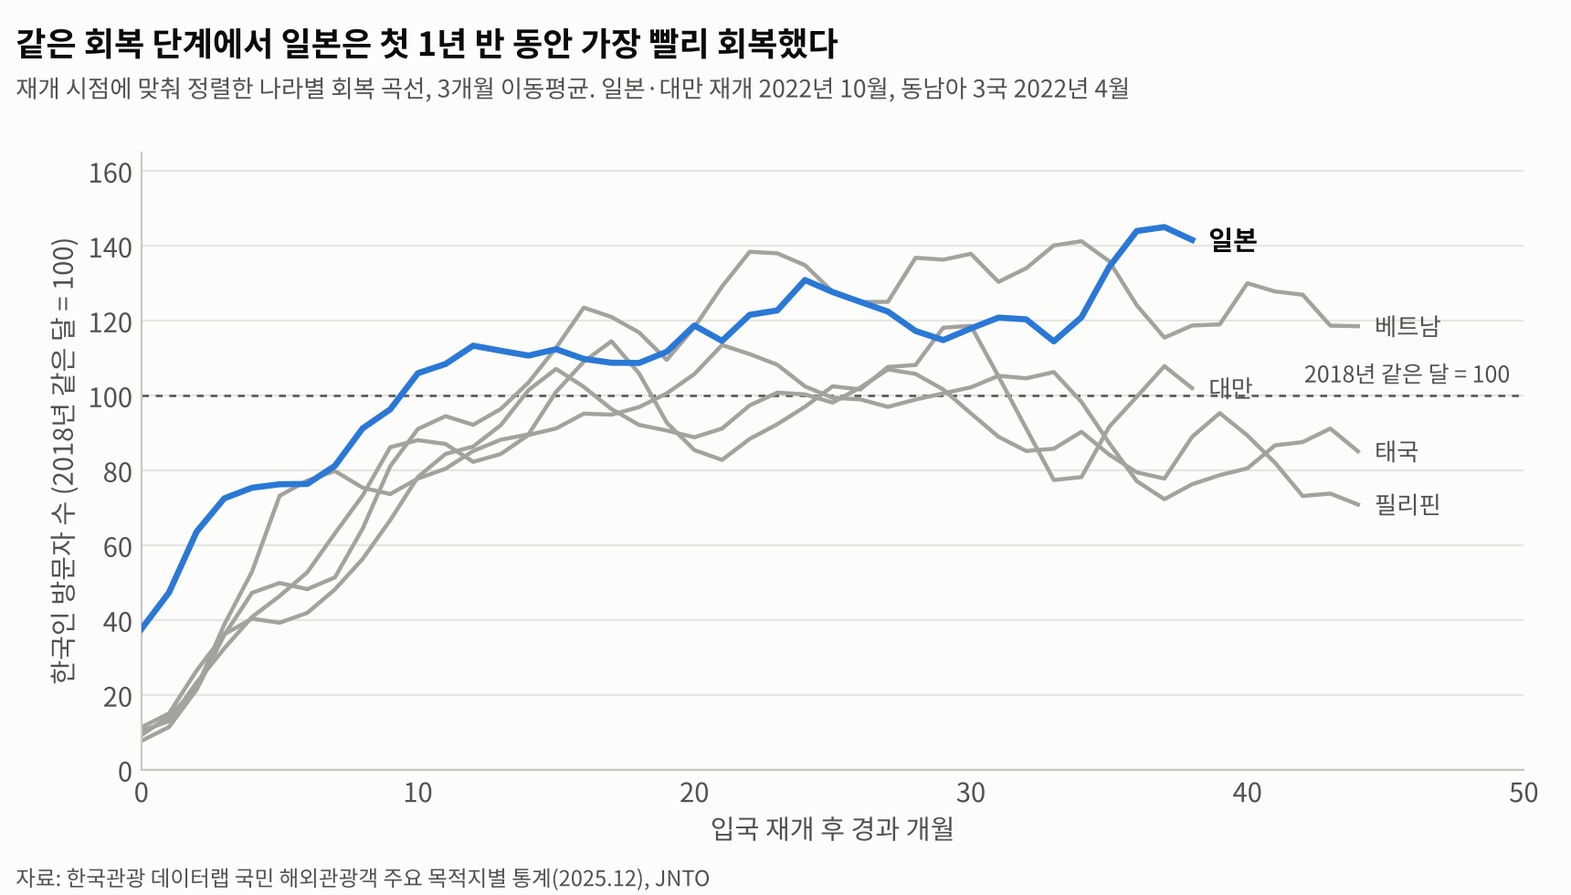
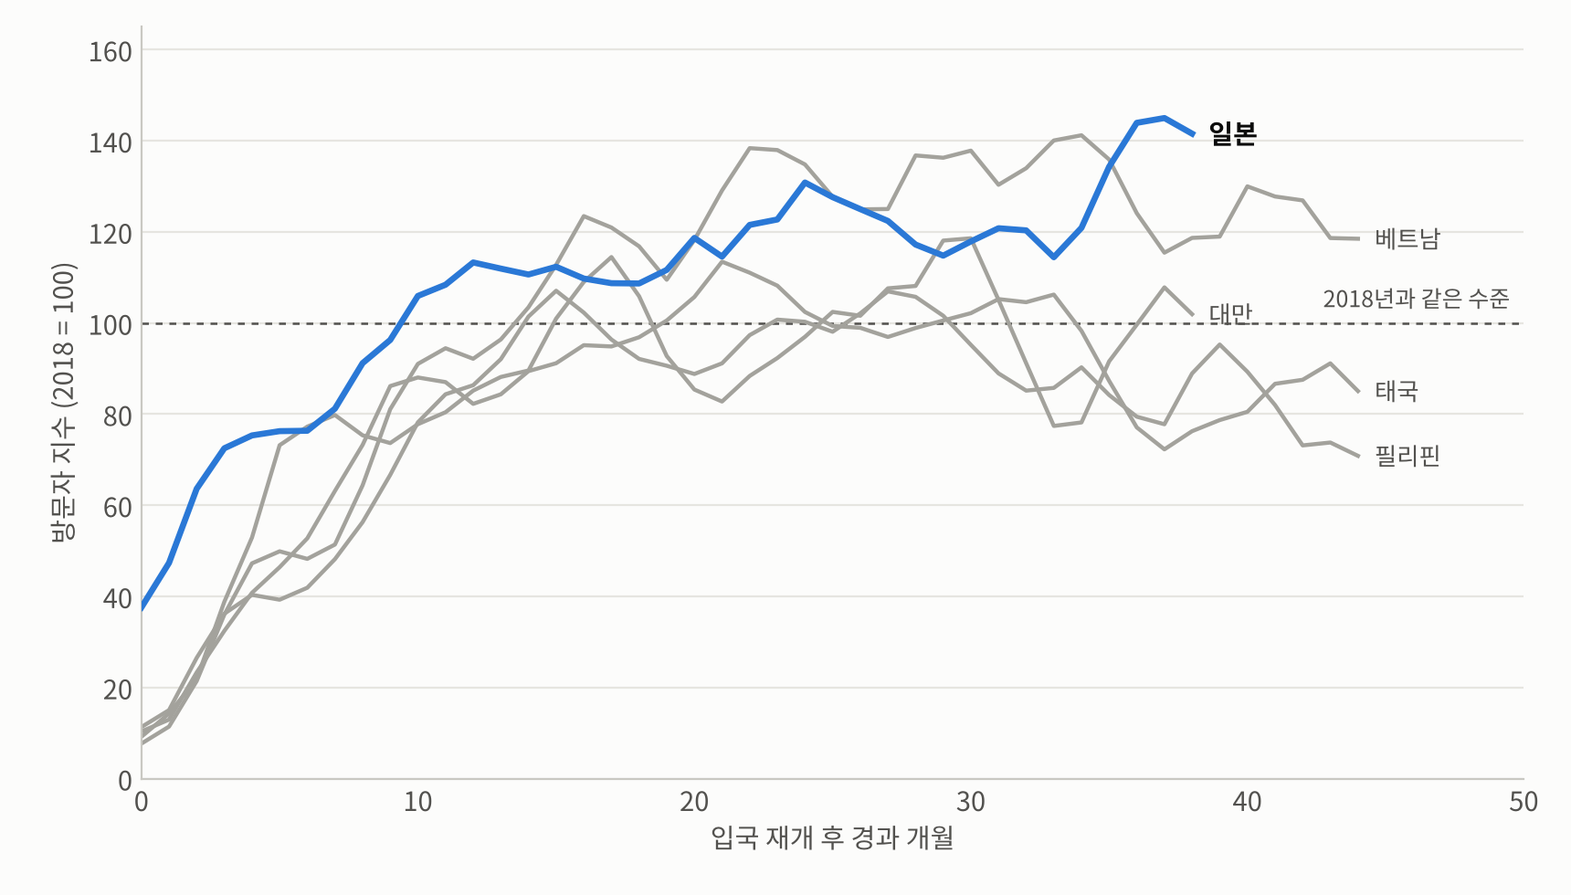
그림: 제목·부제·출처 제거, 축 제목 단축, 라벨 의미 명확화, 겹침 수정; 캡션 초안 문서 추가
Claude-Session: https://claude.ai/code/session_01MK3jgomD3SMyJ2LmiEocoL

diff --git a/src/figures.py b/src/figures.py
@@ -26,7 +26,6 @@ plt.rcParams.update({"font.family": family, "axes.unicode_minus": False, "font.s
                      "figure.facecolor": "#fcfcfb", "axes.facecolor": "#fcfcfb", "savefig.facecolor": "#fcfcfb"})
 INK, INK2, GRID, MUTED = "#0b0b0b", "#52514e", "#e6e5e0", "#a3a29c"
 BLUE, ORANGE = "#2a78d6", "#eb6834"
-SRC = "자료: 한국관광 데이터랩 국민 해외관광객 주요 목적지별 통계(2025.12), JNTO"
 
 
 def style(ax, grid="y"):
@@ -36,12 +35,8 @@ def style(ax, grid="y"):
     ax.tick_params(length=0)
 
 
-def titles(fig, title, sub, note=None, y=0.97, ys=0.915):
-    fig.text(0.01, y, title, fontsize=13, weight="bold", color=INK, va="top")
-    fig.text(0.01, ys, sub, fontsize=9.5, color=INK2, va="top")
-    if note:
-        fig.text(0.01, 0.01, note, fontsize=8.5, color=INK2)
-
+# Figures carry no title, subtitle or source line: the report adds numbered captions and footnotes.
+# Only labels that say what a mark means stay inside the plot. Caption text is kept in docs/figure_captions.md.
 
 P = load_full()
 R = json.load(open(RESULTS / "main_models.json"))
@@ -61,19 +56,17 @@ d = E[E.country == "JP"]
 ax.plot(d.event, d.idx_s, color=BLUE, lw=2.4, zorder=3)
 ax.text(d.event.iloc[-1] + 0.6, d.idx_s.iloc[-1], "일본", color=INK, va="center", fontsize=10.5, weight="bold")
 ax.axhline(100, color=INK2, lw=0.9, ls=(0, (3, 3)), zorder=1)
-ax.text(49.5, 103.5, "2018년 같은 달 = 100", color=INK2, fontsize=9, ha="right")
+ax.text(49.5, 103.5, "2018년과 같은 수준", color=INK2, fontsize=9, ha="right")
 ax.set_xlim(0, 50); ax.set_ylim(0, 165)
-ax.set_xlabel("입국 재개 후 경과 개월"); ax.set_ylabel("한국인 방문자 수 (2018년 같은 달 = 100)")
+ax.set_xlabel("입국 재개 후 경과 개월"); ax.set_ylabel("방문자 지수 (2018 = 100)")
 style(ax)
-titles(fig, "같은 회복 단계에서 일본은 첫 1년 반 동안 가장 빨리 회복했다",
-       "재개 시점에 맞춰 정렬한 나라별 회복 곡선, 3개월 이동평균. 일본·대만 재개 2022년 10월, 동남아 3국 2022년 4월", SRC)
-fig.subplots_adjust(top=0.83, bottom=0.14, left=0.09, right=0.97)
+fig.subplots_adjust(top=0.97, bottom=0.13, left=0.09, right=0.97)
 fig.savefig(FIGURES / "fig1_recovery_by_event_time.png", dpi=200); plt.close(fig)
 
 # ------------------------------------------------------------------ 2. coefficient comparison
-rows = [("모형 1: 일본 단독 (통념)", R["model1"]["theta"], R["model1"]["se"], "main1"),
-        ("모형 2: 달력 월 고정효과", R["model2_calendar"]["theta"], R["model2_calendar"]["se"], "alt"),
-        ("모형 2: 재개 후 경과 고정효과 (본 분석)", R["model2_event"]["theta"], R["model2_event"]["se"], "main2")]
+rows = [("모형 1 · 일본 단독 (통념)", R["model1"]["theta"], R["model1"]["se"], "main1"),
+        ("모형 2 · 달력 월 고정효과", R["model2_calendar"]["theta"], R["model2_calendar"]["se"], "alt"),
+        ("모형 2 · 경과 개월 고정효과 (본 분석)", R["model2_event"]["theta"], R["model2_event"]["se"], "main2")]
 rlab = {"drop_VN": "베트남 제외", "drop_TH": "태국 제외", "drop_PH": "필리핀 제외", "drop_TW": "대만 제외",
         "alt_reopen": "재개 시점 다른 기준", "drop_transition_calendarFE": "회복 전환기 제외",
         "country_trends": "나라별 추세 추가", "drop_first3": "재개 직후 3개월 제외",
@@ -96,12 +89,9 @@ for t, (_, _, _, kind) in zip(ax.get_yticklabels(), rows):
     t.set_color(INK if kind != "rob" else INK2)
 ax.axvline(0, color=INK2, lw=0.9)
 ax.set_xlim(-2, 52)
-ax.set_xlabel("엔화(해당 통화)가 10% 싸질 때 방문자 수 변화 (%), 점 = 추정치, 선 = 95% 신뢰구간")
+ax.set_xlabel("통화 10% 하락 시 방문자 변화 (%)")
 style(ax, "x")
-titles(fig, "공통 수요를 걷어내면 엔저 효과는 통념의 절반 이하로 줄어든다",
-       "비교국과 공통인 해외여행 수요(코로나 전 여행 붐, 코로나 후 보복 여행)를 통제. 시차 0~10개월, Driscoll-Kraay 표준오차(모형 1은 Newey-West)",
-       ys=0.925)
-fig.subplots_adjust(top=0.88, bottom=0.09, left=0.35, right=0.97)
+fig.subplots_adjust(top=0.98, bottom=0.09, left=0.35, right=0.97)
 fig.savefig(FIGURES / "fig2_elasticity_comparison.png", dpi=200); plt.close(fig)
 
 # ------------------------------------------------------------------ 3. decomposition waterfall
@@ -124,12 +114,10 @@ ax.bar(3, total, color=INK2, width=0.62)
 ax.text(3, total + 1.0, f"{total:+.1f}", ha="center", va="bottom", fontsize=10.5, color=INK, weight="bold")
 ax.axhline(0, color=INK2, lw=0.9)
 ax.set_xticks(range(4)); ax.set_xticklabels([s[0] for s in steps] + ["실제 증가\n(2018 → 2024~25)"], fontsize=9.5)
-ax.set_ylabel("로그 차이 × 100 (≈ %)"); ax.set_ylim(-10, 30)
+ax.set_ylabel("방문자 변화 (로그 %)"); ax.set_ylim(-10, 30)
 style(ax)
-titles(fig, f"2018년 대비 일본 증가분(약 +{dec['total_pct']:.0f}%) 중 엔저 몫은 약 {round(100 * fx / total, -1):.0f}%",
-       f"방일 한국인 수 2018년 vs 2024~25년 (같은 달끼리 비교). 같은 기간 엔화 약 {abs(dec['yen_change_pct_lagwindow']):.0f}% 하락. "
-       f"통념 모형(모형 1)이라면 엔저 몫 {naive:.0f}%p, 즉 증가분 전부")
-fig.subplots_adjust(top=0.84, bottom=0.2, left=0.09, right=0.97)
+ax.text(1, common + fx / 2, f"증가분의\n약 {round(100 * fx / total, -1):.0f}%", ha="center", va="center", fontsize=10, color="white", weight="bold")
+fig.subplots_adjust(top=0.97, bottom=0.2, left=0.09, right=0.97)
 fig.savefig(FIGURES / "fig3_decomposition.png", dpi=200); plt.close(fig)
 
 # ------------------------------------------------------------------ 4. break-even curve
@@ -139,22 +127,21 @@ fig, ax = plt.subplots(figsize=(8.6, 5.0))
 ax.fill_between(d, 100 * (th - 1.96 * se) * x, 100 * (th + 1.96 * se) * x, color=BLUE, alpha=0.13, lw=0)
 ax.plot(d, 100 * th * x, color=BLUE, lw=2.4)
 ax.axvspan(0, 12.3, color=GRID, alpha=0.6, lw=0, zorder=0)
-ax.text(1, 198, "실제 관측된\n최대 하락\n(−12%)", fontsize=8.8, color=INK2, va="top")
-for lab, g, be, col in [("불매운동 평균 (2019.7~2020.2)", MV["main"]["boycott"], MV["main"]["breakeven"]["fall_pct"], ORANGE),
-                        ("불매운동 정점 (2019.10~12)", MV["boycott_peak"]["gamma"], MV["boycott_peak"]["breakeven"]["fall_pct"], INK2)]:
+ax.text(1, 198, "관측된\n최대 하락\n(−12%)", fontsize=8.8, color=INK2, va="top")
+for lab, g, be, col in [("불매 평균", MV["main"]["boycott"], MV["main"]["breakeven"]["fall_pct"], ORANGE),
+                        ("불매 정점", MV["boycott_peak"]["gamma"], MV["boycott_peak"]["breakeven"]["fall_pct"], INK2)]:
     y = -100 * g
     ax.axhline(y, color=col, lw=1.2, ls=(0, (4, 3)))
-    ax.text(14, y + 3, f"{lab} 효과 크기: {y:.0f}", ha="left", va="bottom", fontsize=9.5, color=INK)
+    ax.text(14, y + 3, f"{lab}의 효과 크기 ({y:.0f})", ha="left", va="bottom", fontsize=9.5, color=INK)
     ax.plot([be, be], [0, y], color=col, lw=1.0, ls=":")
     ax.scatter([be], [y], s=60, color=col, zorder=4, edgecolor="#fcfcfb", lw=1.5)
     ax.text(be + 1.2, 8 if col == ORANGE else 22, f"{be:.0f}%", color=col, fontsize=10.5, weight="bold")
 ax.set_xlim(0, 90); ax.set_ylim(0, 200)
-ax.set_xlabel("엔화 하락 폭 (%, 2018년 대비)"); ax.set_ylabel("엔저로 늘어나는 방일 수요 (로그 차이 × 100)")
+ax.set_xlabel("엔화 하락 폭 (%)"); ax.set_ylabel("엔저의 수요 증가 (로그 %)")
 style(ax)
-titles(fig, f"불매운동 하나를 상쇄하려면 엔화가 약 {round(MV['main']['breakeven']['fall_pct'], -1):.0f}% 떨어져야 한다",
-       f"파란 선 = 엔저 효과(본 분석 탄력성 {th:.2f}), 띠 = 95% 신뢰구간. 점선(불매 효과 크기)과 만나는 지점이 \"돈이 마음을 이기는\" 엔화 하락 폭",
-       "주: 회색 구간 밖은 관측 범위를 벗어난 외삽이므로 예측이 아니라 크기 비교를 위한 환산값이다")
-fig.subplots_adjust(top=0.85, bottom=0.15, left=0.09, right=0.97)
+ax.annotate("엔저 효과 (띠 = 95% 구간)", xy=(60, 100 * th * np.log(0.4)), xytext=(36, 118), color=BLUE, fontsize=9.5,
+            arrowprops=dict(arrowstyle="-", color=BLUE, lw=0.8))
+fig.subplots_adjust(top=0.97, bottom=0.13, left=0.09, right=0.97)
 fig.savefig(FIGURES / "fig4_breakeven.png", dpi=200); plt.close(fig)
 
 # ------------------------------------------------------------------ 5. share shift 2019
@@ -165,15 +152,15 @@ ax.barh(o.dest, o.did, color=cols, height=0.62)
 for y, v in enumerate(o.did):
     ax.text(v + (0.15 if v >= 0 else -0.15), y, f"{v:+.1f}%p", va="center", ha="left" if v >= 0 else "right",
             fontsize=9.5, color=INK)
+for y, (dd, v) in enumerate(zip(o.dest, o.did)):
+    if dd == "홍콩":
+        ax.text(0.2, y, "2019년 시위와 겹침", va="center", fontsize=9, color=INK2)
 ax.axvline(0, color=INK2, lw=0.9)
 ax.set_xlim(-11.5, 4.5)
 ax.tick_params(axis="y", colors=INK)
-ax.set_xlabel("한국인 전체 출국자 대비 비중 변화 (%p), 2019년 하반기 변화 − 2019년 상반기 변화")
+ax.set_xlabel("출국자 비중 변화 (%p)")
 style(ax, "x")
-titles(fig, "일본 비중이 줄어든 같은 기간, 베트남·미국·필리핀·대만 등의 비중이 올랐다",
-       "전년 같은 반기 대비 비중 변화에서 상반기(불매 전) 변화를 뺀 값. 2018년 하반기 방문자 10만 명 이상 목적지",
-       "자료: 한국관광 데이터랩 국민 해외관광객 주요 목적지별 통계(2025.12). 홍콩 감소는 2019년 시위 시기와 겹친다", ys=0.92)
-fig.subplots_adjust(top=0.86, bottom=0.15, left=0.14, right=0.97)
+fig.subplots_adjust(top=0.98, bottom=0.11, left=0.14, right=0.97)
 fig.savefig(FIGURES / "fig5_share_shift.png", dpi=200); plt.close(fig)
 
 # ------------------------------------------------------------------ 6. yen tiers
@@ -185,7 +172,7 @@ fig, ax = plt.subplots(figsize=(8.6, 4.9))
 xs = np.arange(len(order))
 lin = [100 * (np.exp(b * (mid[k] - mid["ref_0_5"])) - 1) for k, _ in order]
 ax.plot(xs, lin, color=MUTED, lw=1.4, ls=(0, (4, 3)), zorder=1)
-ax.text(4.08, lin[-1], "일정 탄력성\n가정 시", color=INK2, fontsize=9, va="center")
+ax.text(4.08, lin[-1], "일정 탄력성\n가정", color=INK2, fontsize=9, va="center")
 for x, (k, lab) in zip(xs, order):
     if k == "ref_0_5":
         ax.scatter([x], [0], s=50, color=INK2, zorder=3); continue
@@ -194,16 +181,15 @@ for x, (k, lab) in zip(xs, order):
     ax.plot([x, x], [lo, hi], color=BLUE, lw=2, solid_capstyle="round")
     ax.scatter([x], [y], s=60, color=BLUE, zorder=3, edgecolor="#fcfcfb", lw=1.5)
     ax.text(x + 0.1, y, f"{y:+.0f}%", va="center", fontsize=10, color=INK)
+    if k == "yen_lt_m5":
+        ax.text(x + 0.1, lo + 3, "일본만 관측\n(25개월)", va="bottom", fontsize=9, color=INK2)
 ax.axhline(0, color=INK2, lw=0.9)
 ax.set_xticks(xs); ax.set_xticklabels([l for _, l in order], fontsize=9.5)
 ax.tick_params(axis="x", colors=INK)
 ax.set_xlim(-0.5, 4.9)
-ax.set_ylabel("방문자 수 차이 (%), 기준 구간 대비")
+ax.set_xlabel("통화 가치 (자국 2018년 대비)"); ax.set_ylabel("방문자 차이 (%, 기준 구간 대비)")
 style(ax)
-titles(fig, "엔저 폭별 효과는 일정 탄력성 가정과 통계적으로 구분되지 않는다",
-       "이슈 없는 기간, 통화 가치의 10개월 평균을 자국 2018년 수준과 비교한 구간별 효과. 점 = 추정치, 선 = 95% 신뢰구간",
-       "주: '5% 이상 싸짐' 구간은 일본에서만, 2016년 1월과 2023년 9월~2025년 8월 25개월 관측. 사실상 일본 그 시기 더미라 다른 요인과 구분되지 않는다")
-fig.subplots_adjust(top=0.85, bottom=0.2, left=0.1, right=0.93)
+fig.subplots_adjust(top=0.97, bottom=0.22, left=0.1, right=0.93)
 fig.savefig(FIGURES / "fig6_yen_tiers.png", dpi=200); plt.close(fig)
 
 print("wrote", sorted(p.name for p in FIGURES.glob("fig*.png")))

diff --git a/src/boycott_stock.py b/src/boycott_stock.py
@@ -107,34 +107,33 @@ J = load_full().query("country == 'JP'").set_index("t")
 ts = list(range(ym(2019, 4), ym(2020, 2) + 1)); lab = [f"{2015 + t // 12}.{t % 12 + 1}" for t in ts]
 fig, ax = plt.subplots(1, 2, figsize=(11.5, 4.5), gridspec_kw={"width_ratios": [1.2, 1]})
 a = ax[0]; x = np.arange(len(ts))
-a.bar(x, 100 * I_exc.loc[ts] / I_exc.loc[ts].max(), color="#e6dcc8", width=.7, label="불매 검색량 (정점=100)")
-a.plot(x, J.loc[ts, "idx_2018"], color="#1f3b57", lw=2.2, marker="o", ms=4, label="방일 한국인 (2018년 같은 달=100)")
-a.plot(x, 100 * np.exp(g_best * Kn.loc[ts].fillna(0)), color="#c0392b", lw=1.8, ls="--", label="불매 스톡 모형이 본 불매 효과")
+a.bar(x, 100 * I_exc.loc[ts] / I_exc.loc[ts].max(), color="#e6dcc8", width=.7, label="불매 검색량 (정점 = 100)")
+a.plot(x, J.loc[ts, "idx_2018"], color="#1f3b57", lw=2.2, marker="o", ms=4, label="방일 한국인 (2018 = 100)")
+a.plot(x, 100 * np.exp(g_best * Kn.loc[ts].fillna(0)), color="#c0392b", lw=1.8, ls="--", label="불매 스톡 모형의 불매 효과")
 a.plot(x, [100 * np.exp(dummy["gamma"]) if t in BOY else 100 for t in ts], color="#7f8c8d", lw=1.4, ls=":",
-       label="0/1 더미가 본 불매 효과")
+       label="0/1 더미 모형의 불매 효과")
 a.set_xticks(x); a.set_xticklabels(lab, rotation=45, fontsize=8.5); a.set_ylim(0, 115)
-a.set_title("관심은 두 달 만에 식었지만, 여행 회피는 남았다", loc="left", fontsize=11)
-a.legend(frameon=False, fontsize=8, loc="lower left")
-a.text(len(ts) - 1, 103, "2020.2는 코로나 영향 시작", fontsize=7.5, color="#666", ha="right")
+a.set_ylabel("지수 (기준 = 100)")
+a.legend(frameon=False, fontsize=8.5, loc="upper right")
+a.text(len(ts) - 1, 9, "코로나\n영향 시작", fontsize=8.5, color="#666", ha="center")
+a.text(-0.02, 1.03, "(a)", transform=a.transAxes, fontsize=11, weight="bold")
 b = ax[1]
 l1, = b.plot(main.delta, main.ratio_boycott_to_yen10, color="#1f3b57", lw=2, marker="o", ms=4,
              label="불매 ÷ 10% 엔저 (배, 왼쪽 축)")
 b.axhline(dummy["ratio_boycott_to_yen10"], color="#7f8c8d", ls=":", lw=1.2)
-b.text(0.02, dummy["ratio_boycott_to_yen10"] + 0.25, f"0/1 더미 모형: {dummy['ratio_boycott_to_yen10']:.1f}배", fontsize=8, color="#555")
-b.set_xlabel("δ (한 달 뒤 남는 불매 심리의 비율)"); b.set_ylabel("불매 ÷ 10% 엔저 (배)"); b.set_ylim(0, 13)
+b.text(0.97, dummy["ratio_boycott_to_yen10"] + 0.25, f"0/1 더미 모형 {dummy['ratio_boycott_to_yen10']:.1f}배", fontsize=8.5, color="#555", ha="right")
+b.set_xlabel("월 잔존율 δ"); b.set_ylabel("불매 ÷ 10% 엔저 (배)"); b.set_ylim(0, 15)
 b2 = b.twinx()
-l2, = b2.plot(main.delta, main.aic, color="#c9a227", lw=1.4, ls="--", label="AIC (낮을수록 적합, 오른쪽 축)")
+l2, = b2.plot(main.delta, main.aic, color="#c9a227", lw=1.4, ls="--", label="AIC (오른쪽 축, 낮을수록 적합)")
 b2.set_ylabel("AIC", color="#8a6d0b"); b2.axhline(dummy["aic"], color="#c9a227", ls=":", lw=1)
-b2.text(0.02, dummy["aic"] + 3, "0/1 더미 AIC", fontsize=7.5, color="#8a6d0b")
+b2.text(0.9, dummy["aic"] + 3, "0/1 더미 모형 AIC", fontsize=8.5, color="#8a6d0b", ha="right")
 b.axvline(best.delta, color="#c0392b", lw=.8)
-b.text(best.delta - 0.02, 2.0, f"가장 잘 맞는 δ = {best.delta}\n(반감기 약 {best.half_life_months:.0f}개월)", fontsize=8,
-       color="#c0392b", ha="right")
-b.set_title("δ를 어떻게 잡아도 마음 > 돈", loc="left", fontsize=11)
-b.legend([l1, l2], [l1.get_label(), l2.get_label()], frameon=False, fontsize=8, loc="center left", bbox_to_anchor=(0, 0.62))
+b.text(best.delta - 0.02, 14.6, f"최적 δ = {best.delta}\n(반감기 약 {best.half_life_months:.0f}개월)", fontsize=8.5,
+       color="#c0392b", ha="right", va="top")
+b.text(-0.02, 1.03, "(b)", transform=b.transAxes, fontsize=11, weight="bold")
+b.legend([l1, l2], [l1.get_label(), l2.get_label()], frameon=False, fontsize=8.5, loc="lower left")
 for s in ["top", "right"]:
     a.spines[s].set_visible(False)
 b.spines["top"].set_visible(False); b2.spines["top"].set_visible(False)
-fig.text(0.01, 0.005, "검색량: 네이버 데이터랩 '노재팬'+'일본 불매'(2021~26 중앙값 차감). 불매 스톡(t) = 검색량(t) + δ×스톡(t-1), "
-         "한 달 시차로 투입. 비율은 불매 기간 평균 강도 기준.", fontsize=7.8, color="#666")
-fig.tight_layout(rect=(0, 0.04, 1, 1)); fig.savefig(FIGURES / "fig8_boycott_stock.png", dpi=160)
+fig.tight_layout(); fig.savefig(FIGURES / "fig8_boycott_stock.png", dpi=160)
 print("wrote figures/fig8_boycott_stock.png")

diff --git a/src/comparison_expansion.py b/src/comparison_expansion.py
@@ -240,25 +240,26 @@ INK2, GRID, MUTED, BLUE, ORANGE = "#52514e", "#e6e5e0", "#a3a29c", "#2a78d6", "#
 
 fig, ax = plt.subplots(1, 2, figsize=(12.5, 5.2), gridspec_kw={"width_ratios": [1, 1.25]})
 a = ax[0]
-labs = ["현재 5개국", "+동남아 3 (8)", "+동남아 3\n+캄보디아 (9)", "+동남아 3\n+홍콩·마카오 (10)", "11개국 전부"]
+labs = ["5개국 (본 분석)", "8개국\n+싱가포르·말레이시아\n·인도네시아", "9개국\n+위 3국·캄보디아", "10개국\n+위 3국·홍콩·마카오", "11개국\n(모두)"]
 y = np.arange(len(R))[::-1]
 a.errorbar(R.theta, y + 0.12, xerr=1.96 * R.theta_se_dk, fmt="o", color=BLUE, ms=6, capsize=0, lw=1.6,
-           label="θ (본 모형)")
+           label="기본")
 a.errorbar(R.theta_postFE, y - 0.12, xerr=1.96 * R.theta_postFE_se, fmt="s", color=ORANGE, ms=5.5, capsize=0,
-           lw=1.6, mfc="white", label="θ (+ 나라별 코로나 이후 수준)")
+           lw=1.6, mfc="white", label="+ 나라별 코로나 이후 수준 통제")
 a.axvline(0, color=MUTED, lw=1)
 for yy, (_, r) in zip(y, R.iterrows()):
     a.text(1.05, yy, f"{r.ratio:.1f}배", va="center", ha="right", fontsize=9.5, color=INK2,
            transform=a.get_yaxis_transform())
-a.text(1.05, len(R) - 0.45, "불매 ÷ 10% 엔저", ha="right", fontsize=8.5, color=MUTED, transform=a.get_yaxis_transform())
-a.set_ylim(-0.6, len(R) - 0.25); a.set_xlim(-2.2, 1.9)
+a.text(1.05, len(R) - 0.5, "불매 ÷ 10% 엔저", ha="right", fontsize=8.5, color=MUTED, transform=a.get_yaxis_transform())
+a.set_ylim(-0.6, len(R) + 0.5); a.set_xlim(-2.2, 1.9)
 a.set_yticks(y); a.set_yticklabels(labs, fontsize=9)
-a.set_xlabel("누적 환율 탄력성 θ (95% 구간, 음수일수록 엔저에 민감)")
+a.set_xlabel("누적 환율 탄력성 θ")
+a.text(-2.15, -0.5, "← 엔저에 더 민감", fontsize=8.5, color=MUTED, va="center")
+a.text(-0.07, 1.02, "(a)", transform=a.transAxes, fontsize=11, weight="bold")
 a.grid(axis="x", color=GRID); a.set_axisbelow(True)
 for s in ["top", "right", "left"]:
     a.spines[s].set_visible(False)
-a.legend(frameon=False, fontsize=8.5, loc="lower left", bbox_to_anchor=(0, 1.0), ncol=2)
-a.set_title("동남아 3국은 결론을 지키고, 홍콩·마카오·캄보디아는 흔든다", loc="left", fontsize=11, pad=24)
+a.legend(frameon=False, fontsize=8.5, loc="upper left", ncol=2)
 
 b = ax[1]
 H = G[~G.region.isin(["전체 출국자", "기타"])].sort_values("gap_pct")
@@ -266,22 +267,23 @@ H = H[H.destination != "슬로베니아"]
 col = [ORANGE if d == "일본" else ("#c0392b" if d in ("홍콩", "마카오") else BLUE) for d in H.destination]
 yy = np.arange(len(H))
 b.barh(yy, 1.96 * H.placebo_sd_pct * 2, left=-1.96 * H.placebo_sd_pct, color="#ecebe6", height=0.75,
-       label="가짜 구간 범위 (±1.96 SD)")
+       label="우연 범위 (가짜 구간 기준)")
 b.barh(yy, H.gap_pct, color=col, height=0.45)
 b.set_yticks(yy); b.set_yticklabels([d.replace("(미국령)", "") for d in H.destination], fontsize=8.8)
 b.axvline(0, color=MUTED, lw=1)
 for i, v in zip(yy, H.gap_pct):
-    b.text(v + (1.5 if v >= 0 else -1.5), i, f"{v:+.0f}%", va="center", ha="left" if v >= 0 else "right",
-           fontsize=8, color=INK2)
+    b.text(v + (1.5 if v >= 0 else -1.5), i, "0%" if round(v) == 0 else f"{v:+.0f}%", va="center",
+           ha="left" if v >= 0 else "right", fontsize=8, color=INK2)
+for i, d in zip(yy, H.destination):
+    if d in ("홍콩", "마카오"):
+        b.text(2, i, "시위 영향", va="center", fontsize=8.5, color="#c0392b")
 b.set_xlim(-80, 32)
-b.set_xlabel("2019.7~2020.1 방문객, 자기 추세 대비 (%)")
+b.set_xlabel("방문객 변화 (%, 자기 추세 대비)")
+b.text(-0.02, 1.02, "(b)", transform=b.transAxes, fontsize=11, weight="bold")
 b.grid(axis="x", color=GRID); b.set_axisbelow(True)
 for s in ["top", "right", "left"]:
     b.spines[s].set_visible(False)
 b.legend(frameon=False, fontsize=8.5, loc="upper left")
-b.set_title("불매 기간: 미국·유럽·오세아니아로 옮겨간 흔적 없음", loc="left", fontsize=11, pad=24)
-fig.text(0.01, 0.01, "자료: 한국관광 데이터랩(2025.12), 한국은행 ECOS, ECB 기준환율. 오른쪽: 각 목적지 2016.1~2019.6 계절성+추세로 예측한 값과 비교, "
-         "회색은 2017~18년 가짜 구간 18개의 범위.", fontsize=7.8, color=MUTED)
-fig.tight_layout(rect=(0, 0.035, 1, 1))
+fig.tight_layout()
 fig.savefig(FIGURES / "fig9_comparison_countries.png", dpi=160)
 print("wrote figures/fig9_comparison_countries.png")

diff --git a/docs/figure_captions.md b/docs/figure_captions.md
@@ -1,0 +1,15 @@
+# 그림 캡션·각주 초안
+
+그림 안에는 제목·부제·출처를 넣지 않았다. 제출 양식의 그림 번호, 이름, 각주에 아래 문장을 쓴다.
+그림 안에는 값이 무엇을 뜻하는지 알려 주는 라벨만 남겼다.
+
+| 그림 | 이름(캡션) | 각주 |
+|---|---|---|
+| fig1 | 같은 회복 단계에서 일본은 첫 1년 반 동안 가장 빨리 회복했다 | 재개 시점에 맞춰 정렬한 나라별 방문자 지수(2018년 같은 달 = 100), 3개월 이동평균. 재개 시점은 일본·대만 2022년 10월, 동남아 3국 2022년 4월. 자료: 한국관광 데이터랩, JNTO |
+| fig2 | 공통 수요를 걷어내면 엔저 효과는 통념의 절반 이하로 줄어든다 | 점 = 추정치, 선 = 95% 신뢰구간. 시차 0~10개월, Driscoll-Kraay 표준오차(모형 1은 Newey-West). 비교국과 공통인 해외여행 수요(코로나 전 여행 붐, 코로나 후 보복 여행)를 통제 |
+| fig3 | 2018년 대비 일본 증가분 중 엔저 몫은 약 40% | 2018년과 2024~25년 같은 달끼리 비교. 같은 기간 엔화 약 12% 하락. 통념 모형(모형 1)은 엔저 몫을 증가분 전부로 본다 |
+| fig4 | 불매운동 하나를 상쇄하려면 엔화가 약 69% 떨어져야 한다 | 파란 선 = 엔저 효과(본 분석 탄력성), 띠 = 95% 신뢰구간. 점선(불매 효과 크기)과 만나는 지점이 같은 크기의 엔화 하락 폭. 회색 구간 밖은 관측 범위를 벗어난 외삽이라 예측이 아니라 크기 비교용 환산값 |
+| fig5 | 일본 비중이 줄어든 같은 기간 베트남·미국·필리핀·대만 등의 비중이 올랐다 | 전년 같은 반기 대비 비중 변화에서 상반기(불매 전) 변화를 뺀 값. 2018년 하반기 방문자 10만 명 이상 목적지. 홍콩 감소는 2019년 시위 시기와 겹친다. 자료: 한국관광 데이터랩 |
+| fig6 | 엔저 폭별 효과는 일정 탄력성 가정과 통계적으로 구분되지 않는다 | 이슈 없는 기간, 통화 가치의 10개월 평균을 자국 2018년 수준과 비교한 구간별 효과. 점 = 추정치, 선 = 95% 신뢰구간. '5% 이상 싸짐'은 일본에서만 2016년 1월과 2023년 9월~2025년 8월, 25개월 관측되어 일본의 그 시기 더미와 구분되지 않는다 |
+| fig8 | 관심은 두 달 만에 식었지만 여행 회피는 남았다 / δ를 어떻게 잡아도 마음 > 돈 | (a) 검색량: 네이버 데이터랩 '노재팬'+'일본 불매'(2021~26 중앙값 차감). 불매 스톡(t) = 검색량(t) + δ×스톡(t−1), 한 달 시차로 투입. (b) 비율은 불매 기간 평균 강도 기준, δ = 한 달 뒤 남는 불매 심리의 비율 |
+| fig9 | 동남아 3국은 결론을 지키고 홍콩·마카오·캄보디아는 흔든다 / 불매 기간 미국·유럽·오세아니아로 옮겨간 흔적은 없다 | (a) 점 = 추정치, 선 = 95% 구간, 오른쪽 숫자 = 불매 ÷ 10% 엔저. (b) 2019.7~2020.1 방문객을 각 목적지의 2016.1~2019.6 계절성+추세 예측과 비교, 회색 = 2017~18년 가짜 구간 18개의 ±1.96 SD 범위. 자료: 한국관광 데이터랩, 한국은행 ECOS, ECB 기준환율 |
